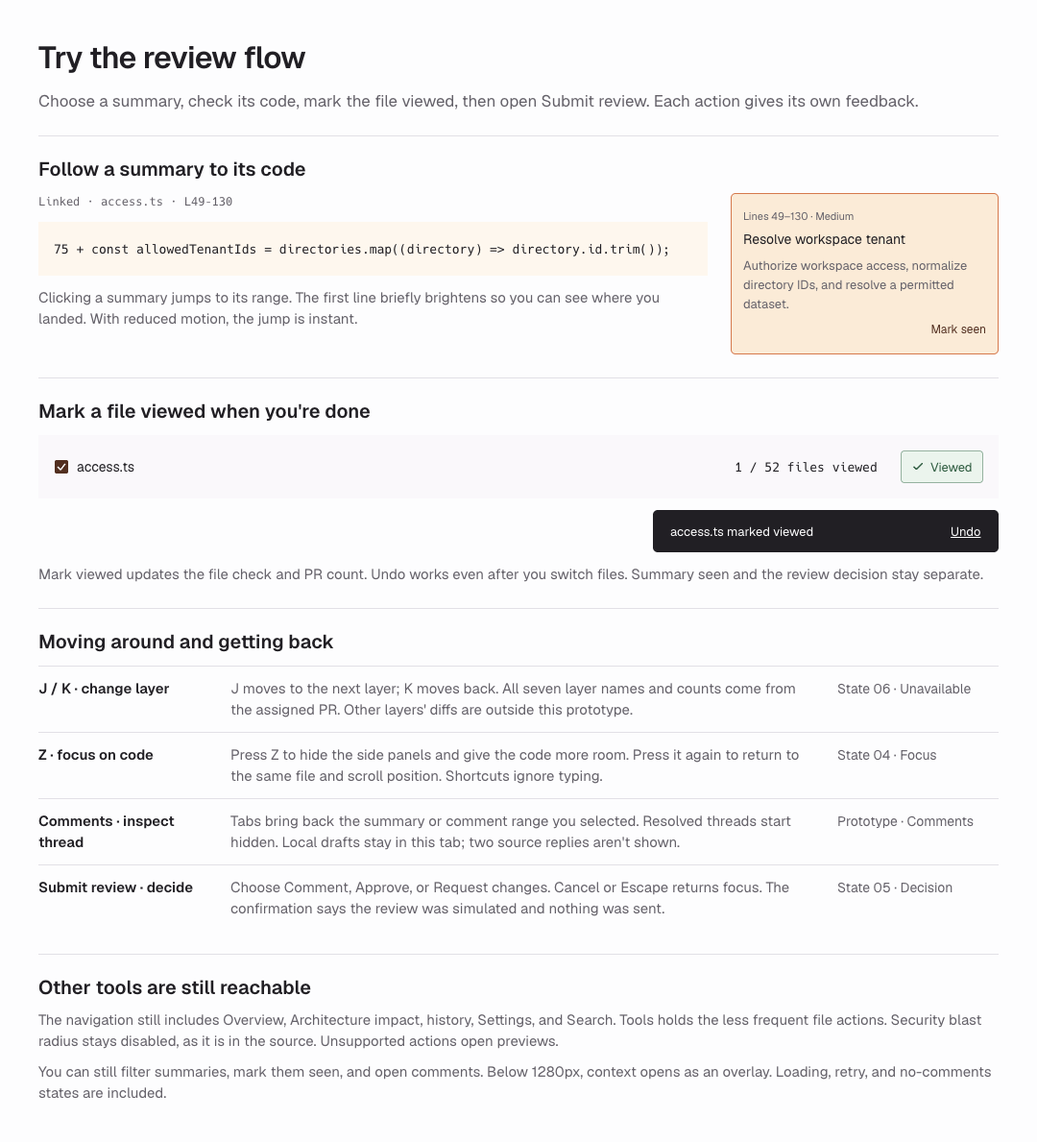
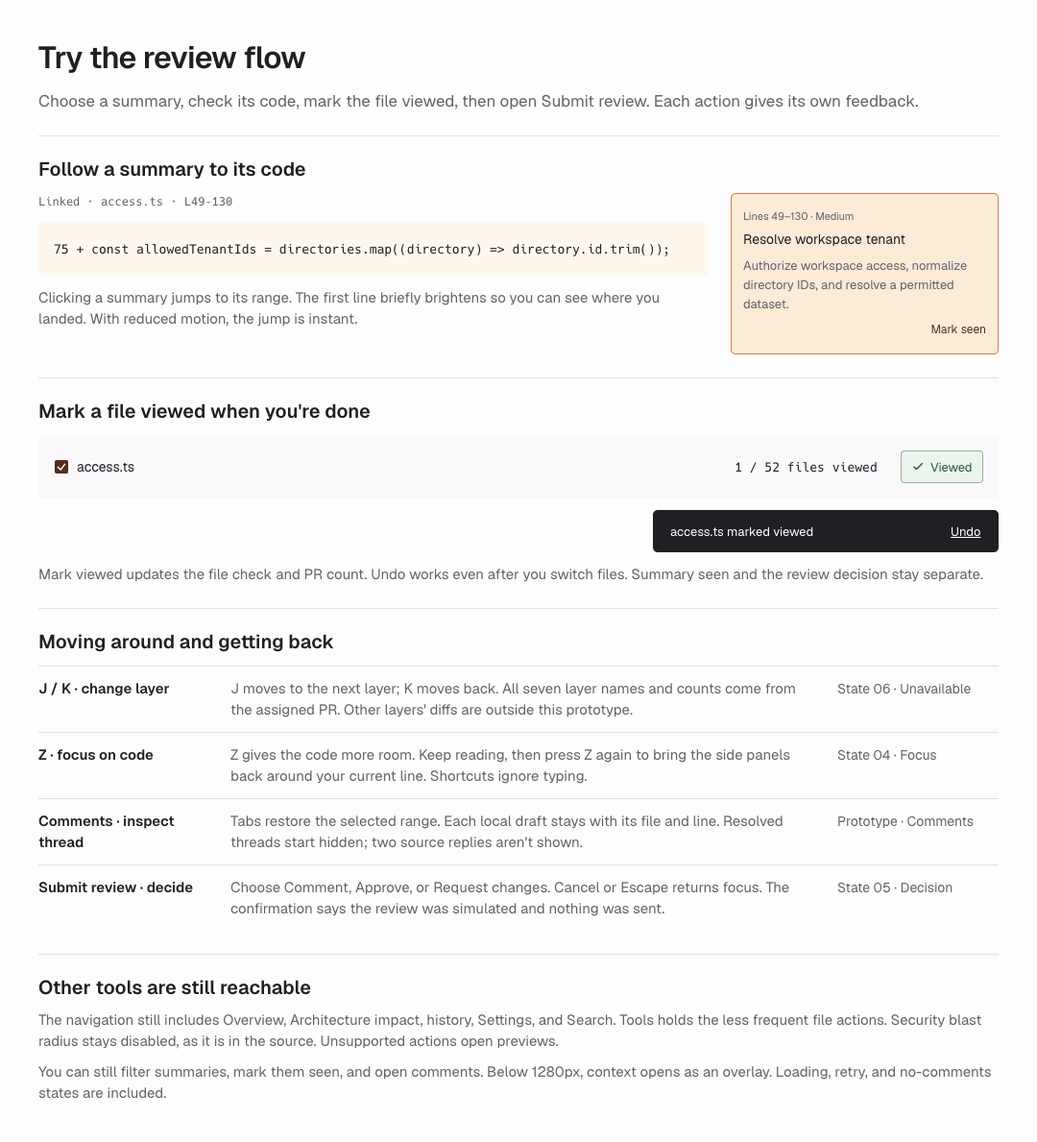
Preserve review position and isolate notes by file and line

Changed region(s): [[0.2139, 0.7157, 0.7639, 0.7468], [0.2139, 0.6535, 0.7639, 0.6846]]

diff --git a/dist/app.js b/dist/app.js
@@ -6,9 +6,11 @@ let data,restoreFocus,toastTimer,arrivalFrame,arrivalVersion=0;
 const linkIcon='<svg viewBox="0 0 16 16" aria-hidden="true"><path d="m6 10 4-4M5.5 6.5l-1 1a2.8 2.8 0 0 0 4 4l1-1M6.5 5.5l1-1a2.8 2.8 0 0 1 4 4l-1 1"/></svg>';
 const checkIcon='<svg viewBox="0 0 16 16" aria-hidden="true"><path d="m3.5 8 3 3 6-6"/></svg>';
 const reducedMotion=()=>matchMedia('(prefers-reduced-motion:reduce)').matches;
-const state={layer:0,file:'0',lastFile:'0',expanded:true,viewed:new Set(),seen:new Set(),summary:'0-49',complexity:'All',focus:false,focusPosition:null,mode:'unified',tab:'summaries',showResolved:false,thread:false,commentLine:null,codeRange:null,draft:'',savedDraft:'',emptyDemo:false,fullFile:true,collapsed:false};
+const state={layer:0,file:'0',lastFile:'0',expanded:true,viewed:new Set(),seen:new Set(),summary:'0-49',complexity:'All',focus:false,mode:'unified',tab:'summaries',showResolved:false,thread:false,commentLine:null,codeRange:null,notes:new Map(),emptyDemo:false,fullFile:true,collapsed:false};
 const currentFile=()=>state.layer===0?data.files.find(f=>f.id===state.file):null;
 const currentSummary=()=>currentFile()?.summaries.find(s=>s.id===state.summary);
+const noteKey=()=>currentFile()&&state.commentLine?`${state.file}:${state.commentLine}`:null;
+const currentNote=()=>state.notes.get(noteKey())||{draft:'',saved:''};
 function dismissToast(){clearTimeout(toastTimer);$('#toast').hidden=true}
 function scheduleToast(){clearTimeout(toastTimer);if($('#toast').contains(document.activeElement)||$('#toast').matches(':hover'))return;toastTimer=setTimeout(dismissToast,8000)}
 function toast(t,undo){const el=$('#toast');clearTimeout(toastTimer);el.innerHTML=`<span>${esc(t)}</span>${undo?'<button type="button">Undo</button>':''}`;el.hidden=false;if(undo)el.querySelector('button').onclick=()=>{undo();dismissToast();currentFile()?.lines?$('#viewed').focus():$('.layer.selected')?.focus()};scheduleToast()}
@@ -63,7 +65,7 @@ function scrollToLine(n,smooth=true,emphasize=false){
  arrivalFrame=requestAnimationFrame(arrive);
 }
 function selectSummary(id){const s=currentFile()?.summaries.find(x=>x.id===id);if(!s)return;state.summary=id;state.commentLine=null;state.codeRange=null;state.collapsed=false;renderSummaries();renderDiff();scrollToLine(s.start,true,true);$('#interaction-status').textContent=`${s.title}. Linked code, lines ${s.range}.`}
-function toggleFocus(){const el=$('#diff'),position={top:el.scrollTop,left:el.scrollLeft};if(!state.focus)state.focusPosition=position;state.focus=!state.focus;document.body.classList.toggle('focus-mode',state.focus);$('#focus').setAttribute('aria-pressed',String(state.focus));$('#focus').innerHTML=`${state.focus?'Exit focus':'Focus'} <kbd>Z</kbd>`;const keep=state.focus?position:state.focusPosition;requestAnimationFrame(()=>el.scrollTo({...keep,behavior:'instant'}))}
+function toggleFocus(){const el=$('#diff'),position={top:el.scrollTop,left:el.scrollLeft};cancelAnimationFrame(arrivalFrame);arrivalVersion++;state.focus=!state.focus;document.body.classList.toggle('focus-mode',state.focus);$('#focus').setAttribute('aria-pressed',String(state.focus));$('#focus').innerHTML=`${state.focus?'Exit focus':'Focus'} <kbd>Z</kbd>`;requestAnimationFrame(()=>el.scrollTo({...position,behavior:'instant'}))}
 function toggleViewed(){const f=currentFile();if(!f?.lines)return;const wasViewed=state.viewed.has(f.id);wasViewed?state.viewed.delete(f.id):state.viewed.add(f.id);renderNav();updateViewedButton();toast(`${f.name} ${wasViewed?'marked unviewed':'marked viewed'}`,()=>{wasViewed?state.viewed.add(f.id):state.viewed.delete(f.id);renderNav();updateViewedButton();$('#interaction-status').textContent=`Undone. ${f.name} ${wasViewed?'viewed':'unviewed'}.`})}
 function setTab(name){
  state.tab=name;
@@ -76,7 +78,7 @@ function setTab(name){
 function openContext(){if(state.focus)toggleFocus();$('#context').classList.add('is-open');$('#context-toggle').setAttribute('aria-expanded','true')}
 function renderComments(){
  const f=currentFile(),el=$('#comments-panel');
- if(state.commentLine){el.innerHTML=`<div class="comment-thread"><h3>Local note · line ${state.commentLine}</h3><p>This draft belongs to the prototype and is never sent.</p>${state.savedDraft?`<p><strong>Saved in this tab</strong><br>${esc(state.savedDraft)}</p>`:''}<label for="comment-draft">Local draft</label><textarea id="comment-draft">${esc(state.draft)}</textarea><button class="primary" data-action="save-draft">Save local draft</button></div>`;return}
+ if(state.commentLine){const note=currentNote();el.innerHTML=`<div class="comment-thread"><h3>Local note · ${esc(f.name)} · line ${state.commentLine}</h3><p>This draft belongs to the prototype and is never sent.</p><p id="saved-note" ${note.saved?'':'hidden'}><strong>Saved in this tab</strong><br><span id="saved-note-text">${esc(note.saved)}</span></p><label for="comment-draft">Local draft</label><textarea id="comment-draft">${esc(note.draft)}</textarea><button class="primary" data-action="save-draft">Save local draft</button></div>`;return}
  if(state.emptyDemo||f?.comments===0){el.innerHTML=`<div class="empty-state"><h3>No comments to show</h3><p>${state.emptyDemo?'Labeled no-comments demonstration.':'No comment messages were shown for this file in the captured inventory.'}</p>${state.emptyDemo?'<button class="text-link" data-action="reset-empty">Return to source comments</button>':''}</div>`;return}
  if(!f){el.innerHTML='<div class="empty-state"><h3>Comments outside fixture</h3><p>The layer count may be captured, but no thread content is reproduced here.</p></div>';return}
  if(!state.showResolved){el.innerHTML=`<div class="empty-state"><h3>No matching comments</h3><p>${f.comments} resolved comment messages are hidden. Filters can hide comments even when the file has comments.</p><button data-action="show-resolved">Show resolved comments</button></div>`;return}
@@ -100,11 +102,11 @@ document.addEventListener('click',e=>{
  if(b.dataset.complexity){if(b.dataset.complexity==='Low'){preview('Low complexity');return}state.complexity=b.dataset.complexity;const first=currentFile()?.summaries.find(s=>state.complexity==='All'||s.complexity===state.complexity);if(first)selectSummary(first.id);else renderSummaries();return}
  if(b.dataset.preview){preview(b.dataset.preview);return}
  if(b.dataset.commentLine){state.commentLine=Number(b.dataset.commentLine);state.codeRange=[state.commentLine,state.commentLine];state.emptyDemo=false;state.collapsed=false;renderDiff();openContext();setTab('comments');$('#comment-draft').focus();return}
- if(b.dataset.demo){$('#dialog').close();const a=b.dataset.demo;if(a==='loading')loadingDemo();if(a==='unavailable')unavailableDemo();if(a==='empty'){selectFile('0');state.emptyDemo=true;state.commentLine=null;setTab('comments');openContext()}if(a==='reset'){state.viewed.clear();state.seen.clear();state.showResolved=false;state.draft='';state.savedDraft='';state.emptyDemo=false;if(state.focus)toggleFocus();state.mode='unified';state.fullFile=true;selectFile('0');setTab('summaries')}return}
- switch(b.dataset.action){case 'overview':e.preventDefault();preview('Overview');return;case 'files':showFiles();return;case 'show-resolved':state.showResolved=true;renderComments();return;case 'hide-resolved':state.showResolved=false;state.thread=false;setTab('comments');return;case 'open-thread':state.thread=true;state.codeRange=[75,90];renderDiff();scrollToLine(75);renderComments();return;case 'save-draft':state.savedDraft=state.draft;toast('Draft saved in this tab. Nothing was sent.');return;case 'reset-empty':state.emptyDemo=false;renderComments();return;case 'full-file':state.fullFile=!state.fullFile;$('#dialog').close();renderDiff();if(currentSummary())scrollToLine(currentSummary().start,false);return;case 'collapse-file':state.collapsed=true;$('#dialog').close();renderDiff();return;case 'expand-file':state.collapsed=false;renderDiff();return;case 'bulk-viewed':data.files.filter(f=>f.lines).forEach(f=>state.viewed.add(f.id));$('#dialog').close();renderScreen();toast('Seven included files marked viewed locally; 45 other files remain unviewed.');return;}
+ if(b.dataset.demo){$('#dialog').close();const a=b.dataset.demo;if(a==='loading')loadingDemo();if(a==='unavailable')unavailableDemo();if(a==='empty'){selectFile('0');state.emptyDemo=true;state.commentLine=null;setTab('comments');openContext()}if(a==='reset'){state.viewed.clear();state.seen.clear();state.showResolved=false;state.notes.clear();state.emptyDemo=false;if(state.focus)toggleFocus();state.mode='unified';state.fullFile=true;selectFile('0');setTab('summaries')}return}
+ switch(b.dataset.action){case 'overview':e.preventDefault();preview('Overview');return;case 'files':showFiles();return;case 'show-resolved':state.showResolved=true;renderComments();return;case 'hide-resolved':state.showResolved=false;state.thread=false;setTab('comments');return;case 'open-thread':state.thread=true;state.codeRange=[75,90];renderDiff();scrollToLine(75);renderComments();return;case 'save-draft':{const note=currentNote();state.notes.set(noteKey(),{...note,saved:note.draft});$('#saved-note-text').textContent=note.draft;$('#saved-note').hidden=!note.draft;toast('Draft saved in this tab. Nothing was sent.');return;}case 'reset-empty':state.emptyDemo=false;renderComments();return;case 'full-file':state.fullFile=!state.fullFile;$('#dialog').close();renderDiff();if(currentSummary())scrollToLine(currentSummary().start,false);return;case 'collapse-file':state.collapsed=true;$('#dialog').close();renderDiff();return;case 'expand-file':state.collapsed=false;renderDiff();return;case 'bulk-viewed':data.files.filter(f=>f.lines).forEach(f=>state.viewed.add(f.id));$('#dialog').close();renderScreen();toast('Seven included files marked viewed locally; 45 other files remain unviewed.');return;}
  switch(b.id){case 'submit-review':showReview();break;case 'simulate-submit':confirmReview();break;case 'notes':showNotes();break;case 'return-file':selectFile('0');break;case 'viewed':toggleViewed();break;case 'focus':toggleFocus();break;case 'unified':case 'split':state.mode=b.id;renderDiff();break;case 'summaries-tab':setTab('summaries');break;case 'comments-tab':setTab('comments');break;case 'context-toggle':openContext();break;case 'close-context':$('#context').classList.remove('is-open');$('#context-toggle').setAttribute('aria-expanded','false');$('#context-toggle').focus();break;case 'summary-toggle':{const show=b.getAttribute('aria-expanded')==='false';b.setAttribute('aria-expanded',String(show));$('#layer-description').hidden=!show;$('.layer-heading').classList.toggle('is-collapsed',!show);b.firstChild.textContent=show?'Hide summary ':'Show summary ';break}case 'file-tools':showTools();break;case 'retry-source':$('#retry-result').textContent='Retry demonstration: live availability can vary. The pinned fixture remains available locally; no review was sent.';break;case 'restore-excerpt':renderDiff();break;}
 });
-document.addEventListener('input',e=>{if(e.target.id==='comment-draft')state.draft=e.target.value;if(e.target.id==='file-search')$$('.file-choice[data-path]').forEach(b=>b.hidden=!b.dataset.path.includes(e.target.value.toLowerCase()))});
+document.addEventListener('input',e=>{if(e.target.id==='comment-draft'&&noteKey())state.notes.set(noteKey(),{...currentNote(),draft:e.target.value});if(e.target.id==='file-search')$$('.file-choice[data-path]').forEach(b=>b.hidden=!b.dataset.path.includes(e.target.value.toLowerCase()))});
 document.addEventListener('keydown',e=>{
  if(!data)return;const typing=e.target.closest('input,textarea,select,[contenteditable=true]');if((e.ctrlKey||e.metaKey)&&e.key.toLowerCase()==='k'&&!typing&&!$('#dialog').open){e.preventDefault();showFiles();return}if(e.defaultPrevented||e.ctrlKey||e.metaKey||e.altKey||typing||$('#dialog').open)return;
  if(e.key==='Escape'&&$('#context').classList.contains('is-open')){$('#close-context').click();return}if(e.target.getAttribute('role')==='tab'&&['ArrowLeft','ArrowRight','Home','End'].includes(e.key)){e.preventDefault();setTab(e.key==='Home'?'summaries':e.key==='End'?'comments':state.tab==='summaries'?'comments':'summaries');$(`#${state.tab}-tab`).focus();return}if(e.key.toLowerCase()==='j'){e.preventDefault();setLayer(state.layer+1)}if(e.key.toLowerCase()==='k'){e.preventDefault();setLayer(state.layer-1)}if(e.key.toLowerCase()==='z'&&(currentFile()||state.focus)){e.preventDefault();toggleFocus()}

diff --git a/dist/rationale.html b/dist/rationale.html
@@ -1,1 +1,1 @@
-<!doctype html><html lang="en"><head><meta charset="utf-8"><meta name="viewport" content="width=device-width,initial-scale=1"><title>Change Stack — Design rationale</title><link rel="stylesheet" href="styles.css?v=brand-20261019"><style>body{display:block;overflow:auto;height:auto;min-width:0;background:white}article{max-width:850px;margin:64px auto;padding:0 32px 48px}h1{white-space:normal;font-size:32px;line-height:1.2;letter-spacing:-.03em;font-weight:600}h2{font-size:18px;margin:28px 0 12px}p{margin:12px 0;line-height:1.6;color:#65616a}table{border-collapse:collapse;width:100%;font-size:14px;margin:20px 0}th{text-align:left;color:#211f24;font-weight:500;background:#faf8fb}td,th{padding:14px 16px;border-bottom:1px solid #e3e0e7;vertical-align:top}td:first-child{width:36%;font-weight:500;color:#211f24}nav{margin-bottom:24px}.byline{font-size:13px;color:#65616a;margin-top:16px}.small{font-size:12px}@media print{article{margin:0;padding:0}nav{display:none}h1{font-size:24px}body{font-size:12px}table{font-size:11px}td,th{padding:10px}h2{font-size:15px;margin:18px 0 8px}@page{size:A4;margin:18mm}}</style><link rel="stylesheet" href="brand.css?v=brand-20261019"></head><body><article><nav><a href="index.html">Prototype</a> · <a href="https://app.paper.design/file/01M5AQACJZP42ZGTRX7GF9ERE7/p-1-0/1YS-0">Paper design</a> · <a href="comparison.html">Original and redesign</a> · <a href="rationale.pdf">PDF</a></nav><h1>What I changed in Change Stack</h1><p class="byline">CodeRabbit Change Stack · Formbricks #8650 · Parth Pawar</p><p>The original has a lot competing with the code. I kept the layer structure and focused on making it easier to see which file you&#x27;re reviewing, how a summary relates to its code, and what you&#x27;ve finished.</p><table><thead><tr><th>What got in the way</th><th>What I changed</th></tr></thead><tbody><tr><td>The layer, file path, and file position are spread across the screen.</td><td>I kept the selected layer, file, and path together. The full nine-file list opens when you need it, so the left rail stays short.</td></tr><tr><td>Several rows of file controls compete with the diff.</td><td>I put the frequent file actions in one toolbar and left Submit review in the PR header. The other tools are still available by name.</td></tr><tr><td>The 37-summary count belongs to the layer. access.ts has six.</td><td>I labeled both counts and kept the summary-to-code link. Matching highlights and a brief emphasis at the destination help you follow the jump.</td></tr><tr><td>Seen summaries, viewed files, and a submitted review mean different things.</td><td>I separated those actions and counts. Opening a file doesn&#x27;t mark it viewed. Mark viewed has Undo, and submitting a review requires a separate decision.</td></tr></tbody></table><h2>The right panel takes space</h2><p>The right panel leaves less room for code. Z hides the side panels without losing your place. Below 1280px, context opens as an overlay.</p><h2>What I checked</h2><p>I checked summary jumps, Undo after switching files, J/K, Z, and dialog focus. I&#x27;d still test this with developers: can they find a file, follow a summary to code, and explain what&#x27;s left to review? I haven&#x27;t measured a speed improvement.</p><p class="small">This uses the out-of-date Formbricks #8650 snapshot at 23cdac2. Seven of 52 diffs are included. Other content is labeled as a preview; not every source workflow is implemented. Submitting a review is simulated and sends nothing.</p></article></body></html>
+<!doctype html><html lang="en"><head><meta charset="utf-8"><meta name="viewport" content="width=device-width,initial-scale=1"><title>Change Stack — Design rationale</title><link rel="stylesheet" href="styles.css?v=brand-20261019"><style>body{display:block;overflow:auto;height:auto;min-width:0;background:white}article{max-width:850px;margin:64px auto;padding:0 32px 48px}h1{white-space:normal;font-size:32px;line-height:1.2;letter-spacing:-.03em;font-weight:600}h2{font-size:18px;margin:28px 0 12px}p{margin:12px 0;line-height:1.6;color:#65616a}table{border-collapse:collapse;width:100%;font-size:14px;margin:20px 0}th{text-align:left;color:#211f24;font-weight:500;background:#faf8fb}td,th{padding:14px 16px;border-bottom:1px solid #e3e0e7;vertical-align:top}td:first-child{width:36%;font-weight:500;color:#211f24}nav{margin-bottom:24px}.byline{font-size:13px;color:#65616a;margin-top:16px}.small{font-size:12px}@media print{article{margin:0;padding:0}nav{display:none}h1{font-size:24px}body{font-size:12px}table{font-size:11px}td,th{padding:10px}h2{font-size:15px;margin:18px 0 8px}@page{size:A4;margin:18mm}}</style><link rel="stylesheet" href="brand.css?v=brand-20261019"></head><body><article><nav><a href="index.html">Prototype</a> · <a href="https://app.paper.design/file/01M5AQACJZP42ZGTRX7GF9ERE7/p-1-0/1YS-0">Paper design</a> · <a href="comparison.html">Original and redesign</a> · <a href="rationale.pdf">PDF</a></nav><h1>What I changed in Change Stack</h1><p class="byline">CodeRabbit Change Stack · Formbricks #8650 · Parth Pawar</p><p>The original has a lot competing with the code. I kept the layer structure and focused on making it easier to see which file you&#x27;re reviewing, how a summary relates to its code, and what you&#x27;ve finished.</p><table><thead><tr><th>What got in the way</th><th>What I changed</th></tr></thead><tbody><tr><td>The layer, file path, and file position are spread across the screen.</td><td>I kept the selected layer, file, and path together. The full nine-file list opens when you need it, so the left rail stays short.</td></tr><tr><td>Several rows of file controls compete with the diff.</td><td>I put the frequent file actions in one toolbar and left Submit review in the PR header. The other tools are still available by name.</td></tr><tr><td>The 37-summary count belongs to the layer. access.ts has six.</td><td>I labeled both counts and kept the summary-to-code link. Matching highlights and a brief emphasis at the destination help you follow the jump.</td></tr><tr><td>Seen summaries, viewed files, and a submitted review mean different things.</td><td>I separated those actions and counts. Opening a file doesn&#x27;t mark it viewed. Mark viewed has Undo, and submitting a review requires a separate decision.</td></tr></tbody></table><h2>The right panel takes space</h2><p>The right panel leaves less room for code. Z hides the side panels and keeps your current reading position when they return. Below 1280px, context opens as an overlay.</p><h2>What I checked</h2><p>I checked summary jumps, Undo, keyboard controls, and dialog focus. Focus mode keeps where you&#x27;ve read to, and notes stay with their file and line. I&#x27;d still test whether developers can find a file, follow a summary, and tell what&#x27;s left to review. I haven&#x27;t measured a speed improvement.</p><p class="small">This uses the out-of-date Formbricks #8650 snapshot at 23cdac2. Seven of 52 diffs are included. Other content is labeled as a preview; not every source workflow is implemented. Submitting a review is simulated and sends nothing.</p></article></body></html>

diff --git a/dist/index.html b/dist/index.html
@@ -5,8 +5,8 @@
   <title>CodeRabbit Change Stack · Review redesign</title>
   <meta name="description" content="An independent CodeRabbit review workspace prototype by Parth Pawar. Explore layer navigation, connected summaries, focus mode, and review progress.">
   <meta name="robots" content="noindex,nofollow">
-  <link rel="stylesheet" href="styles.css?v=handoff-20261020">
-<link rel="stylesheet" href="brand.css?v=handoff-20261020"><link rel="stylesheet" href="live.css?v=handoff-20261020"></head>
+  <link rel="stylesheet" href="styles.css?v=release-20261020">
+<link rel="stylesheet" href="brand.css?v=release-20261020"><link rel="stylesheet" href="live.css?v=release-20261020"></head>
 <body>
   <a class="skip-link" href="#diff">Skip to code</a>
   <section class="submission-bar" aria-label="Design assignment submission">
@@ -38,6 +38,6 @@
   <div class="sr-only" id="interaction-status" role="status" aria-live="polite"></div>
   <div class="toast" role="status" id="toast" hidden></div>
   <dialog id="dialog" aria-labelledby="dialog-title"><form method="dialog" id="dialog-form"><div class="dialog-heading"><h2 id="dialog-title"></h2><button class="quiet" value="cancel" aria-label="Close dialog">Close</button></div><div id="dialog-content"></div></form></dialog>
-  <script src="app.js?v=handoff-20261020" defer></script>
+  <script src="app.js?v=release-20261020" defer></script>
 </body>
 </html>

diff --git a/docs/verification.md b/docs/verification.md
@@ -85,3 +85,19 @@ JavaScript syntax, whitespace checks, and one scoped mechanical detector pass pa
 Rewrote the final Paper page’s introduction, source diagnoses, design reasoning, interaction notes, and source-error explanation in the same direct, first-person tone as the submission message. Product labels, exact source content, PR counts, and behavior were kept. Archived explorations were outside this copy pass.
 
 The five changed Paper boards were visually inspected for wrapping and fit, then exported as current native PNGs and raw JSX. The rationale PDF and HTML use the same source copy in rationale-content.json. The PDF remains one page; its rendered page was checked for readable type, table wrapping, spacing, and clipping. The HTML was inspected at 1280px and checked at 880px with no document overflow. The wording retains the code-width tradeoff, limited content coverage, simulated submission, and the need for developer usability testing.
+
+## Local Thursday refinement · October 20, 2026 · unpublished
+
+Reproduced and fixed two concrete issues: focus mode restored its entry position instead of the current reading position, and local notes used one shared draft/saved value across files and lines. Focus now captures position on each layout toggle. Notes use a file-ID/line key and show that ownership in the heading. Paper flow notes and exports were updated.
+
+After the fix, leaving focus retained 1692.5px. A second line and another file opened empty; returning restored access.ts:49's saved note and access.ts:50's separate unsaved draft. Typing J/K/Z stayed in the textarea. At 1280px there was no document overflow; at 1100px context aligned to the 109px header edge. Simulated confirmation and Escape focus restoration passed. Browser warning/error logs were empty. JS syntax, whitespace, and one scoped detector pass passed.
+
+Public entry points returned HTTP 200 without authentication. Public rationale and fixture match local files; the PDF remains one page. Source counts and line lengths remain consistent. No publishing, pushing, messaging, submission, or permission change was performed. The public app remains at 1f6ce63 pending review of these local fixes. The Thursday handoff and a review archive are in outputs.
+
+## Reviewed release · October 20, 2026
+
+Parth authorized publishing the prepared focus-position and file/line-note fixes. An independent second-agent review assessed the changes, Paper screenshots, one-page rationale, source counts, and the assignment's four judging criteria. It found a P2: the saved-note block could show the previous saved value after a second save. This was fixed by updating a stable text node directly, preserving the editor and focus. The reviewer rechecked first save, A-to-B save, clearing, editor identity, note isolation, and current focus position and reported no remaining blocker in its bounded scope.
+
+Live browser checks confirmed immediate saved A/B values, empty notes for a different file or line, restored saved and unsaved notes, clearing the saved block, and keyboard focus retained on Save. The rationale now explicitly describes current reading position and file/line ownership, and still compiles to one visually checked page. The Paper flow wording and native exports match. The design detector reported only existing editorial font sizes in rationale.html; those are intentional reading-page sizes, not a product UI change.
+
+The independent review is documented in docs/second-review.txt. No email or message to CodeRabbit was sent. Publication and final public verification are recorded in the Thursday handoff.

diff --git a/docs/DESIGN.md b/docs/DESIGN.md
@@ -139,7 +139,7 @@ Buttons use the control radius. Summaries, textareas, comment containers, decisi
 - **Buttons and fields:** primary actions use orange with dark text; secondary buttons use the near-white base with a neutral border; quiet buttons remove the visible border. Hover and pressed states change the fill. Textareas retain 5px corners and body type. Disabled buttons reduce opacity and suppress the pointer cursor.
 - **Summaries:** each button shows a mono line range, title, and short explanation. Selecting one updates `aria-pressed`, selects its code range, and scrolls that range into view. Each file discloses captured versus total summary counts. Mark seen is a separate control.
 - **Diff:** Unified and Split are pressed-state controls. Split shows a blank before side for these new files and the complete added source on the right. Tools can collapse the file or show only captured summary ranges. Line comment controls appear on hover or keyboard focus.
-- **Focus mode:** Z or the Focus control hides navigation and context and gives the code the available width. Entering and leaving preserves the file and saved scroll position; the control indicates its pressed state.
+- **Focus mode:** Z or the Focus control hides navigation and context and gives the code the available width. Entering and leaving preserves the current file and reading position; the control indicates its pressed state.
 - **Progress and reviews:** Mark viewed applies only to seven included added-file diffs; progress is displayed against 52 source files. Summary seen is tracked separately against 37 layer summaries. Review decisions open in a native modal dialog and submission is explicitly simulated. History, settings, impact analysis, and uncaptured workflows are labeled previews. The file picker filters nine verified paths; three complexity choices filter captured summaries.
 - **Accessibility:** retain the skip link, labeled navigation and code region, semantic tabs with arrow/Home/End handling, pressed and expanded states, status announcements, and native dialog containment. Closing a dialog restores focus to its trigger. Interactive controls receive a 2px dark orange-family focus outline with a 3px offset. Shortcuts ignore typing, modified keys, and open dialogs. Reduced-motion preferences disable smooth scrolling and animation.
 - **Historical PR context:** the exact review run is marked out of date at commit 23cdac2. Its captured access-control thread is resolved. No current mergeability or defect status is inferred.
@@ -167,3 +167,5 @@ Mark viewed updates the toolbar check, navigation indicator, and 52-file count t
 Simulate submission changes the open decision dialog into a persistent confirmation. The dialog identifies the selected decision and states that nothing was sent. Return to review restores focus to Submit review. Dialogs fade in over 160ms, toast feedback over 140ms, and the viewed fill changes over 140ms. Reduced motion removes all fades, destination emphasis, and smooth scrolling while preserving labels and state changes.
 
 Context tabs restore the code range belonging to their visible content. Summaries restores the selected explanation; Comments restores the open historical thread or local note. Hiding resolved threads clears their range and returns to the selected summary. Draft text remains in tab memory.
+
+Focus mode keeps the position reached while reading when the side panels return. Local notes are stored by file ID and line number, with separate draft and saved text; another file or line starts blank.
